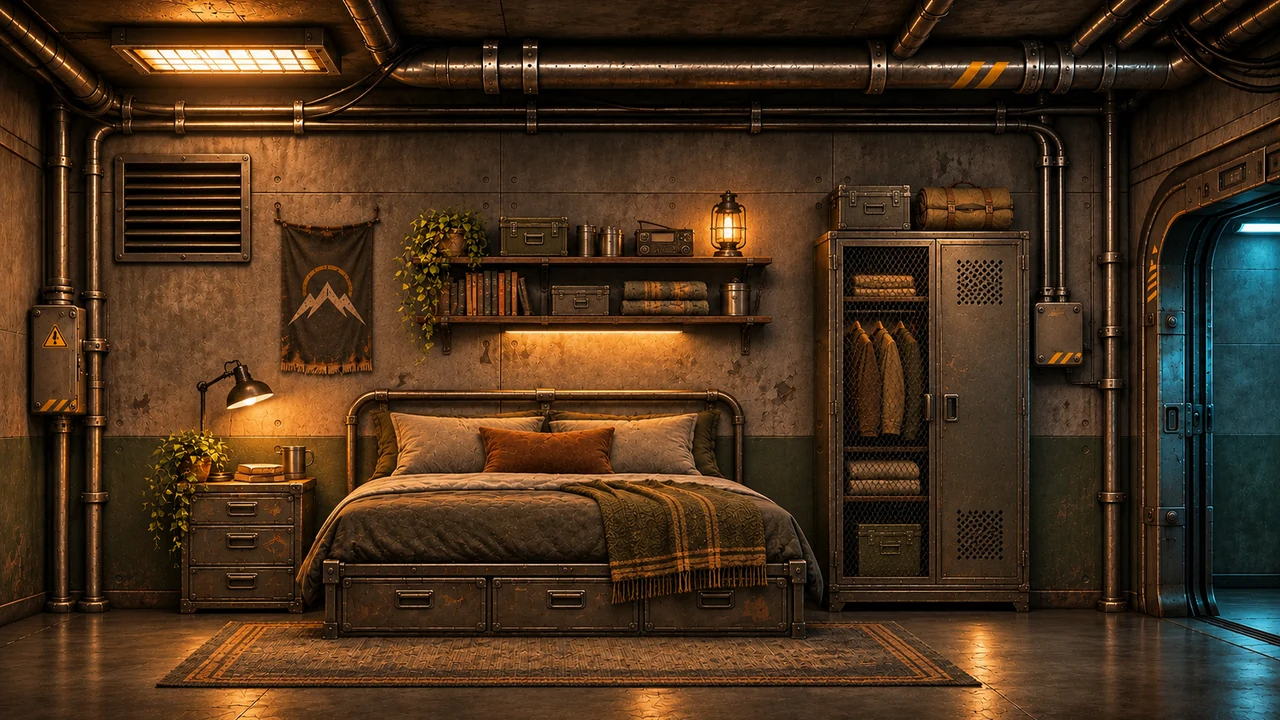
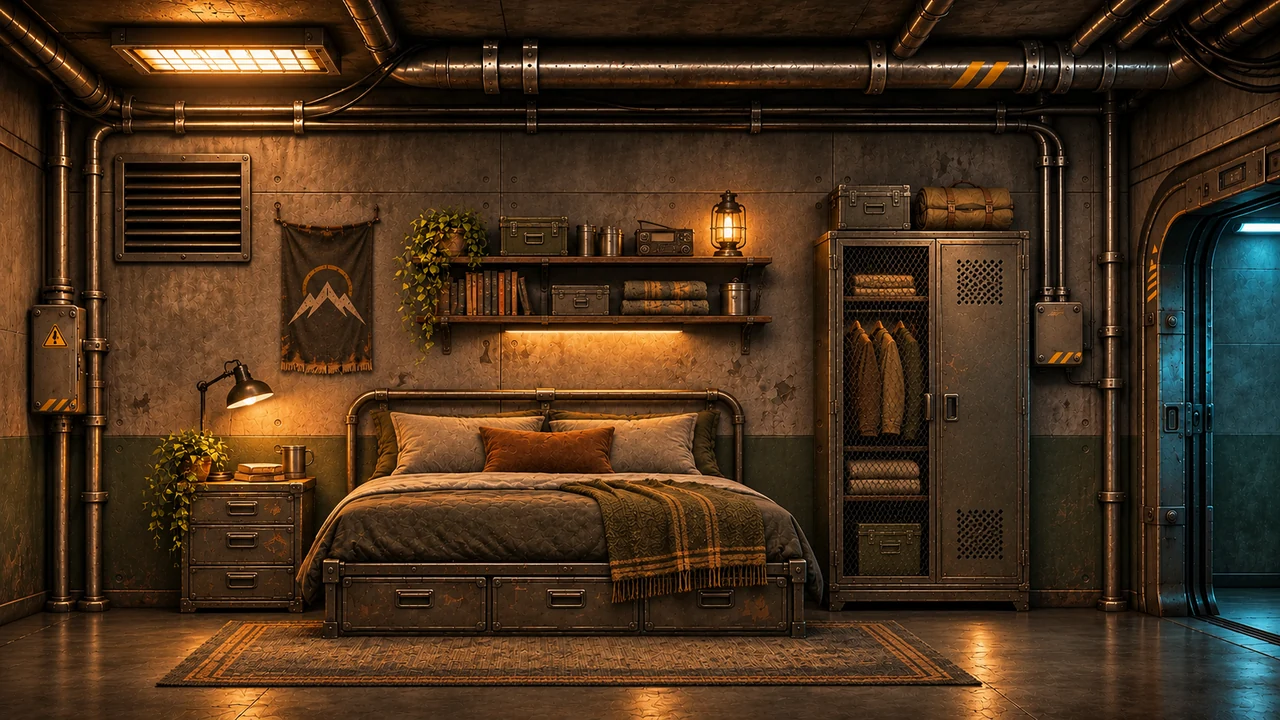
Add files via upload

diff --git a/js/game.js b/js/game.js
@@ -1,4 +1,4 @@
-const APP_VERSION='0.1.54';
+const APP_VERSION='0.1.54.2';
 
 (()=>{'use strict';const KEY='ashen-save-v010';const attrNames={str:'Siła',dex:'Zręczność',end:'Wytrzymałość',per:'Percepcja',int:'Inteligencja',cha:'Charyzma'};
 const rarities=[{name:'Zwykły',color:'#b8bfc3',weight:58,mult:1},{name:'Ulepszony',color:'#8ac78b',weight:25,mult:1.14},{name:'Rzadki',color:'#77afe5',weight:12,mult:1.32},{name:'Epicki',color:'#c391e4',weight:4,mult:1.58},{name:'Legendarny',color:'#f2bb65',weight:1,mult:1.95}];
@@ -1329,7 +1329,7 @@ function hideoutSvgThing(slot,id){if(id==='none')return '';
  if(id==='trophy')content=`<path d="M-8 -82 h16 v50 h-16z" fill="#7c8b83"/><path d="M-43 -59 Q-23 -80 0 -62 Q23 -80 43 -59 Q51 -28 23 -17 L12 5 H-12 L-23 -17 Q-51 -28 -43 -59Z" fill="#695d4d" stroke="#b8a17d" stroke-width="5"/><path d="M-13 14 H13 L20 57 H-20 Z" fill="#726452"/><path d="M-33 65 H33" stroke="#b8a17d" stroke-width="9"/>`;
  return content?`<g transform="translate(${slot==='left'?218:slot==='center'?488:slot==='right'?759:480} ${slot==='wall'?174:405})">${content}</g>`:'';
 }
-const bedroomBackgroundByLevel=lvl=>`./assets/bunker/rooms/bedroom-level${Math.max(1,Math.min(5,lvl))}.webp`;
+const bedroomBackgroundByLevel=lvl=>`./assets/bunker/rooms/bedroom-level${Math.max(1,Math.min(5,lvl))}.webp?v=0.1.54.2`;
 function hideoutScene(h){
  const lvl=roomLevel('bedroom');
  const roomLabel=lvl===1?'Poziom 1 — surowa sypialnia':lvl===2?'Poziom 2 — odnowiona sypialnia':'Poziom 3 — wyposażona sypialnia';

diff --git a/index.html b/index.html
@@ -1,1 +1,1 @@
-<!doctype html><html lang="pl"><head><meta charset="utf-8"><meta name="viewport" content="width=device-width,initial-scale=1"><title>ASHEN — Kroniki Upadku v0.1.54</title><link rel="stylesheet" href="./css/style.css?v=0.1.54"></head><body><div id="app"></div><script src="./js/game.js?v=0.1.54" defer></script></body></html>
+<!doctype html><html lang="pl"><head><meta charset="utf-8"><meta name="viewport" content="width=device-width,initial-scale=1"><title>ASHEN — Kroniki Upadku v0.1.54.2</title><link rel="stylesheet" href="./css/style.css?v=0.1.54.2"></head><body><div id="app"></div><script src="./js/game.js?v=0.1.54.2" defer></script></body></html>

diff --git a/README.md b/README.md
@@ -1,3 +1,7 @@
+## ASHEN v0.1.54.2 — naprawa odświeżania grafik sypialni
+
+Podmiana trzech scen sypialni 1–3; wymuszenie przeładowania obrazów po aktualizacji dzięki parametrze wersji w adresie plików. Wgrywaj pliki zachowując strukturę katalogów, zastępując poprzednie wersje. Mechanika gry i zapisy pozostają niezmienione.
+
 # ASHEN v0.1.54 — Kryjówka: 15 gotowych scen
 
 - Sypialnia, magazyn i warsztat mają po pięć etapów rozwoju (15 scen).
